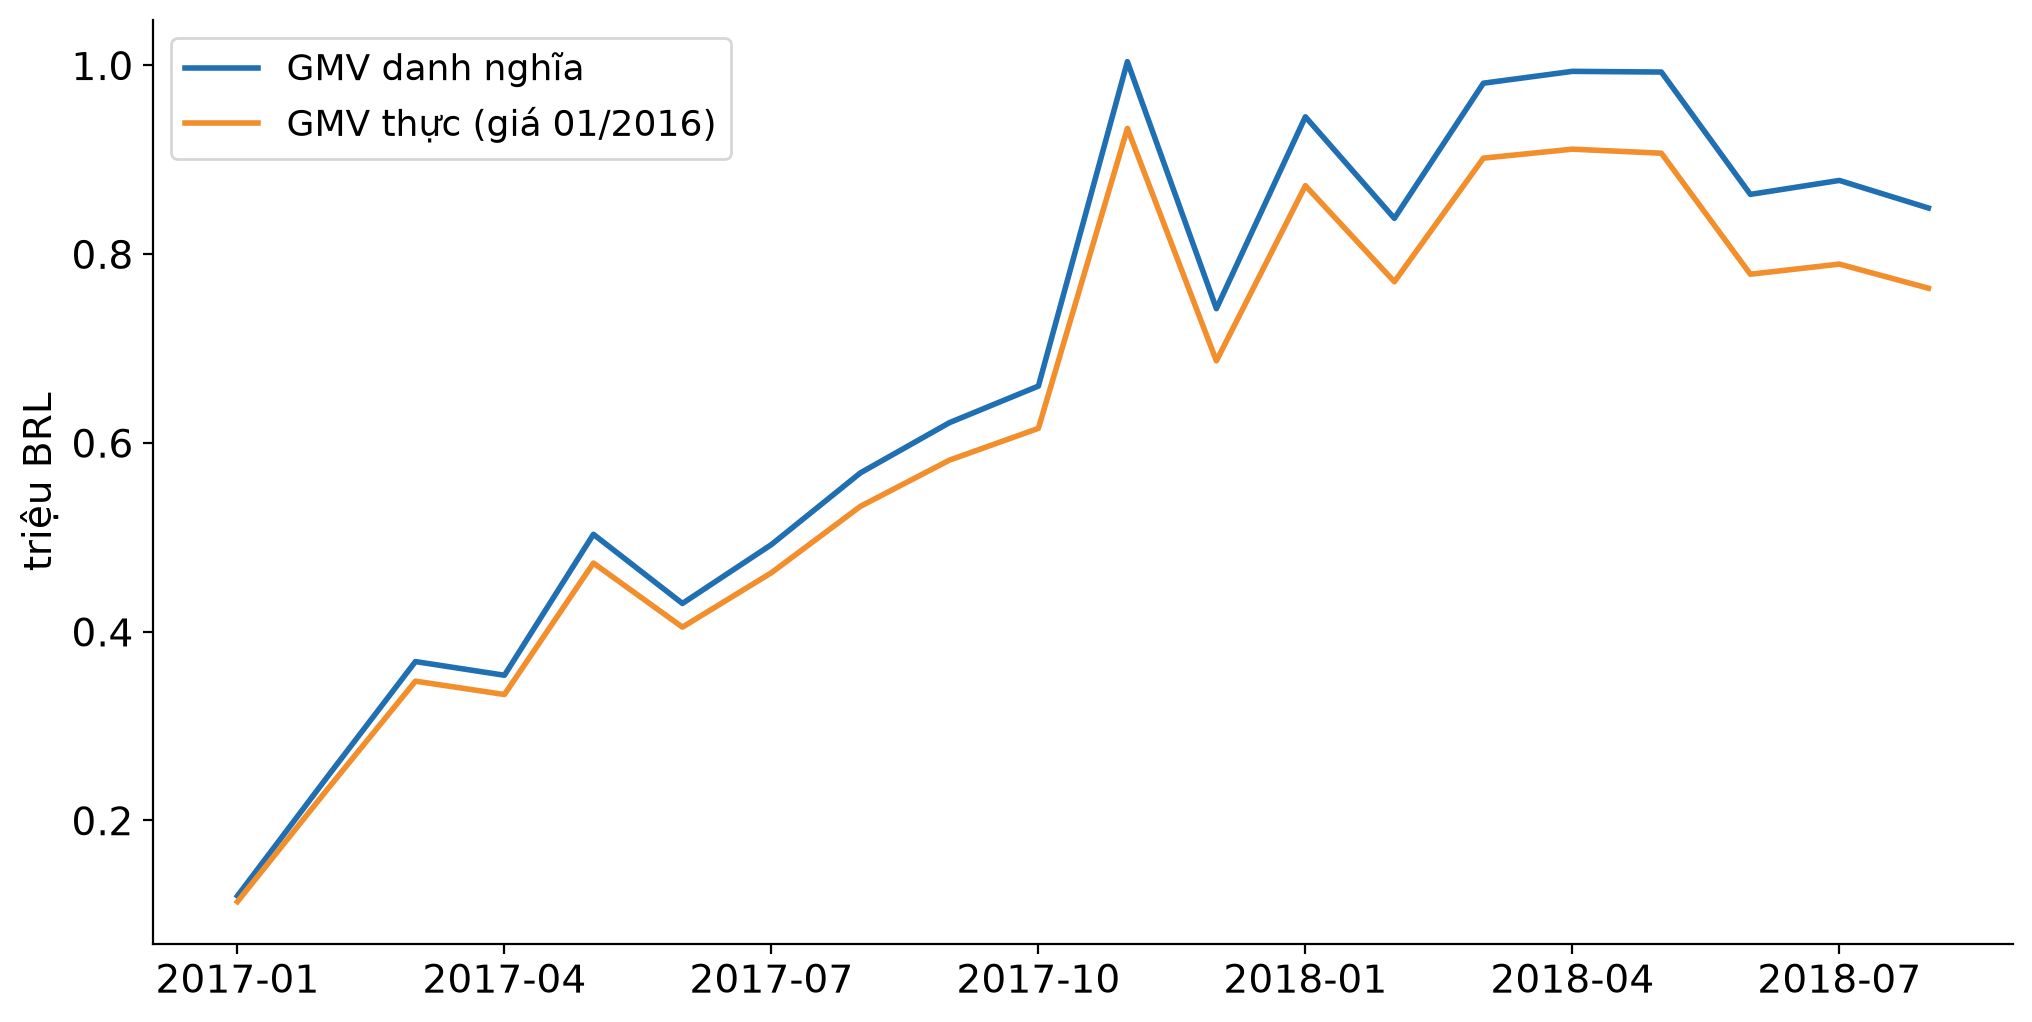
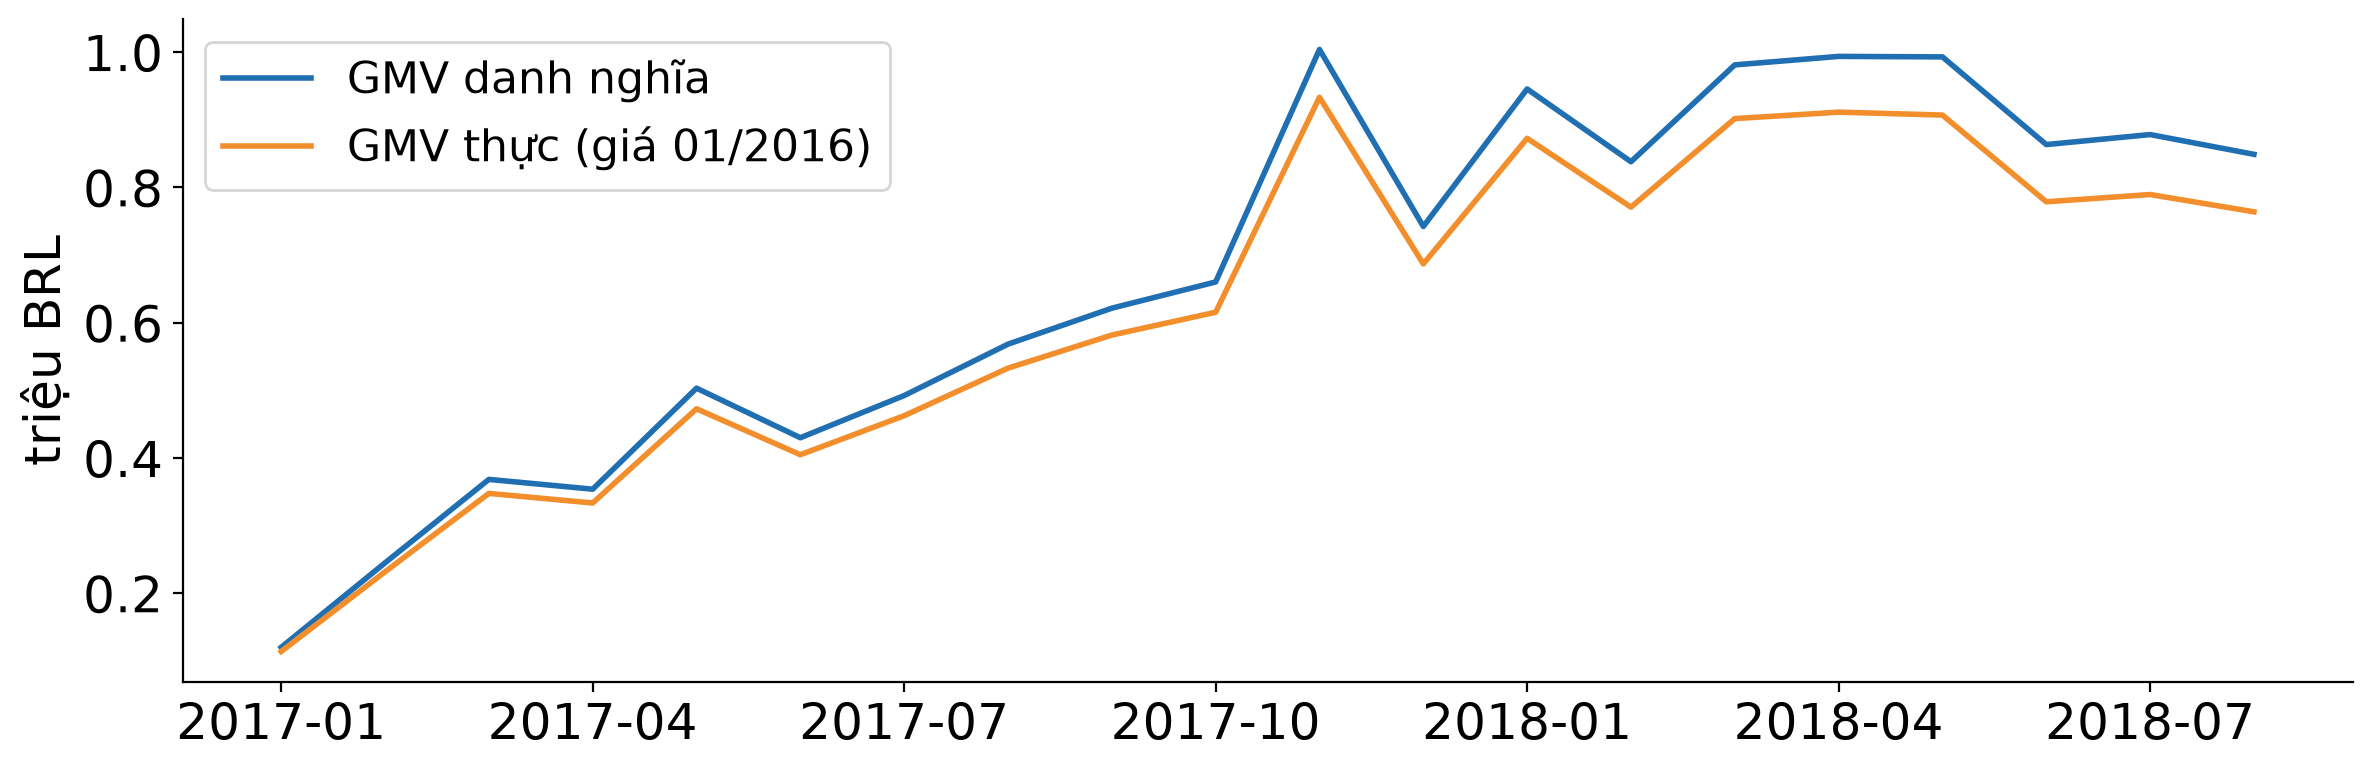
feat(P11b): wider slide charts (14 x 4.3, axis text 18, labels 16), redrawn constellation and pipeline diagrams for the opening slides, 0 checker errors on 00/04/05

diff --git a/scripts/p11_figures.py b/scripts/p11_figures.py
@@ -86,13 +86,13 @@ for i in range(6):
 block(ax, xs[0], 0.2, xs[6] + bw - xs[0], 0.95, "etl_log ghi mọi lời gọi; lỗi API không chặn pipeline chính", "#FFFBEA", fs=17, dashed=True, bold=False)
 save(fig, "5-2_kien_truc_api_sl.png")
 
-# ------------------------------------------------------------------ latency chart (12 x 6, no title)
+# ------------------------------------------------------------------ latency chart (14 x 4.3, no title, axis text 18 pt, labels 16 pt)
 md = (ROOT / "handoff" / "2026-11-19-P10-latency.md").read_text(encoding="utf-8")
 probes = []
 for m in re.finditer(r"- probe (\d+): PostgreSQL → Kafka ([\d.]+) s; Kafka → Bronze ([\d.]+) s; Bronze → Silver ([\d.]+) s", md):
     probes.append((int(m.group(1)), float(m.group(2)), float(m.group(3)), float(m.group(4))))
 assert len(probes) == 6, probes
-fig, ax = plt.subplots(figsize=(12, 6))
+fig, ax = plt.subplots(figsize=(14, 4.3))
 labels = [f"lần {p[0]}" for p in probes]
 left = [0.0] * len(probes)
 for k, name, col in ((1, "PostgreSQL → Kafka", "#8ECAE6"), (2, "Kafka → Bronze", ORANGE), (3, "Bronze → Silver", "#2A9D8F")):
@@ -100,10 +100,51 @@ for k, name, col in ((1, "PostgreSQL → Kafka", "#8ECAE6"), (2, "Kafka → Bron
     ax.barh(labels, vals, left=left, label=name, color=col, edgecolor="white")
     left = [a + b for a, b in zip(left, vals)]
 for y, v in enumerate(left):
-    ax.text(v + 0.5, y, f"{v:.1f} s", va="center", fontsize=15)
-ax.set_xlabel("giây từ lúc COMMIT ở nguồn đến khi Silver ghi xong", fontsize=15)
+    ax.text(v + 0.5, y, f"{v:.1f} s", va="center", fontsize=16)
+ax.set_xlabel("giây từ lúc COMMIT ở nguồn đến khi Silver ghi xong", fontsize=18)
 ax.invert_yaxis()
-ax.tick_params(labelsize=15)
-ax.legend(loc="lower center", bbox_to_anchor=(0.5, 1.0), ncol=3, fontsize=15, frameon=False)
+ax.tick_params(labelsize=18)
+ax.legend(loc="lower center", bbox_to_anchor=(0.5, 1.0), ncol=3, fontsize=16, frameon=False)
 ax.set_xlim(0, 45)
 save(fig, "5-1_latency_sl.png")
+
+
+# ------------------------------------------------------------------ chapter 3 diagrams for the opening slides (the originals stay for chapter 3)
+# (1) constellation: 6 facts share 10 dimensions (13 blocks; dim_date is joined by every fact)
+W, H = 14.0, 4.5
+fig, ax = canvas(W, H)
+facts = [("order_item", "transaction"), ("payment", "transaction"), ("review", "transaction"), ("order_\nfulfillment", "accumulating"), ("lead_funnel", "accumulating"), ("seller_\nmonthly", "periodic")]
+fw, fh, fgap = 2.0, 1.05, 0.3
+fx = [0.1 + i * (fw + fgap) for i in range(6)]
+fy = 3.0
+for x, (n, t) in zip(fx, facts):
+    block(ax, x, fy, fw, fh, f"{n}\n({t})", ORANGE, fs=13)
+dims = [("dim_date\n(role-playing)", 0), ("dim_customer\nSCD2", 0), ("dim_seller\nSCD1", 0), ("dim_product", 0), ("dim_geography", 0), ("order_status,\npayment_type", 0), ("lead_origin,\nlead_profile,\nsales_rep", 0)]
+dw, dh, dgap = 1.78, 1.0, 0.2
+dx = [0.1 + i * (dw + dgap) for i in range(7)]
+dy = 0.1
+edges = {0: [0, 1, 2, 3, 4, 5], 1: [0, 1, 5], 2: [0, 1], 3: [0, 1, 4, 5], 4: [0, 2, 6], 5: [0, 2]}
+for f, ds in edges.items():
+    for d in ds:
+        ax.plot([fx[f] + fw / 2, dx[d] + dw / 2], [fy, dy + dh], color="#6B7280", lw=1.4, alpha=0.55, zorder=1)
+for x, (n, _) in zip(dx, dims):
+    block(ax, x, dy, dw, dh, n, BLUE, fs=12)
+ax.text(W / 2, 4.3, "6 fact dùng chung 10 dimension", ha="center", va="center", fontsize=18, fontweight="bold")
+save(fig, "3-3-4_constellation_sl.png")
+
+# (2) pipeline: source -> staging -> ODS -> warehouse -> mart -> Power BI (8 blocks)
+W, H = 14.0, 3.9
+fig, ax = canvas(W, H)
+steps = [("CSV\nKaggle", GREY), ("oltp +\ncrm", GREY), ("staging", BRONZE), ("ods", SILVER), ("dw\n10 dim\n6 fact", GOLD), ("4 mart\n17 view", GREEN), ("Power BI\n4 dashboard", PURPLE)]
+bw, bh, gap = 1.68, 1.3, 0.3
+xs = [0.1 + i * (bw + gap) for i in range(7)]
+y0 = 1.65
+for x, (t, c) in zip(xs, steps):
+    block(ax, x, y0, bw, bh, t, c, fs=13)
+labs = ["nạp nguồn", "extract", "làm sạch", "dim rồi fact", "view", "CSV"]
+for i in range(6):
+    arrow(ax, (xs[i] + bw, y0 + bh / 2), (xs[i + 1], y0 + bh / 2))
+    ax.text((xs[i] + bw + xs[i + 1]) / 2, y0 + bh + 0.15, labs[i], ha="center", va="bottom", fontsize=14, color=EDGE)
+block(ax, xs[1], 0.1, xs[6] + bw - xs[1], 0.85, "etl_log: mỗi lần chạy, dòng bị loại, kết quả 136 kiểm thử", "#FFFBEA", fs=16, dashed=True, bold=False)
+ax.text(W / 2, 3.7, "run_pipeline điều phối: Python gọi các procedure SQL", ha="center", va="center", fontsize=17, fontweight="bold")
+save(fig, "3-4-1_pipeline_sl.png")

diff --git a/scripts/p9_results.py b/scripts/p9_results.py
@@ -1,7 +1,7 @@
 """P9 results: numbers, tables and figures for chapter 5.2 from the warehouse (olist_dw) and the landing zone manifests.
 
     python scripts/p9_results.py            # everything below
-    python scripts/p9_results.py --slide    # P11: only the charts for the projector, written as figures/5-2_*_sl.png (12 x 6 in, text >= 13 pt, no title);
+    python scripts/p9_results.py --slide    # P11: only the charts for the projector, written as figures/5-2_*_sl.png (14 x 4.3 in, axis text 18 pt, labels 16 pt, no title);
                                             # the handoff, the report tables and the diagram are NOT written; numbers are the same
 Writes:  handoff/2026-11-18-P9-results.md (all numbers, generated; do not edit by hand)
          report/tables/p9_*.tex   figures/5-2_*.png   docs/diagrams/api-kien-truc.drawio + figures/5-2_kien_truc_api.png (draft)
@@ -36,21 +36,21 @@ SLIDE = "--slide" in sys.argv
 if SLIDE:                                   # P11: same data and drawing code, projector sizes (slides/QUY-TAC-TRINH-BAY.md section 6)
     import matplotlib.axes as _ax
 
-    plt.rcParams.update({"font.size": 14, "xtick.labelsize": 14, "ytick.labelsize": 14})
+    plt.rcParams.update({"font.size": 18, "xtick.labelsize": 18, "ytick.labelsize": 18})
     _subplots = plt.subplots
-    plt.subplots = lambda *a, **k: _subplots(*a, **{**k, "figsize": (12, 7.6) if k.get("figsize", (0, 0))[1] > 6.5 else (12, 6)})
+    plt.subplots = lambda *a, **k: _subplots(*a, **{**k, "figsize": (14, 8.6) if k.get("figsize", (0, 0))[1] > 6.5 else (14, 4.3)})
     _ax.Axes.set_title = lambda self, *a, **k: None
     _text = _ax.Axes.text
-    _ax.Axes.text = lambda self, x, y, s, *a, **k: _text(self, x, y, s, *a, **{**k, "fontsize": max(k.get("fontsize", 13), 13)})
+    _ax.Axes.text = lambda self, x, y, s, *a, **k: _text(self, x, y, s, *a, **{**k, "fontsize": max(k.get("fontsize", 16), 16)})
     _xl, _yl, _xt, _lg = _ax.Axes.set_xlabel, _ax.Axes.set_ylabel, _ax.Axes.set_xticklabels, _ax.Axes.legend
-    _ax.Axes.set_xlabel = lambda self, s, *a, **k: _xl(self, s, *a, **{**k, "fontsize": 14})
-    _ax.Axes.set_ylabel = lambda self, s, *a, **k: _yl(self, s, *a, **{**k, "fontsize": 14})
+    _ax.Axes.set_xlabel = lambda self, s, *a, **k: _xl(self, s, *a, **{**k, "fontsize": 18})
+    _ax.Axes.set_ylabel = lambda self, s, *a, **k: _yl(self, s, *a, **{**k, "fontsize": 18})
     import textwrap as _tw
 
-    _ax.Axes.set_xticklabels = lambda self, l, *a, **k: _xt(self, [_tw.fill(str(t), 16) for t in l], *a, **{**k, "fontsize": 14})
+    _ax.Axes.set_xticklabels = lambda self, l, *a, **k: _xt(self, [_tw.fill(str(t), 15) for t in l], *a, **{**k, "fontsize": 18})
     _sy = _ax.Axes.set_ylim
     _ax.Axes.set_ylim = lambda self, *a, **k: _sy(self, 40, 104) if a == (80, 102) else _sy(self, *a, **k)   # tier chart: show the 47-54% of tier 1 instead of cutting it off
-    _ax.Axes.legend = lambda self, *a, **k: _lg(self, *a, **{**k, "fontsize": 13, **({"loc": "upper left"} if "luỹ kế" in self.get_ylabel() else {})})
+    _ax.Axes.legend = lambda self, *a, **k: _lg(self, *a, **{**k, "fontsize": 16, **({"loc": "lower center", "bbox_to_anchor": (0.5, 1.0), "ncol": 3, "frameon": False} if "luỹ kế" in self.get_ylabel() else {})})
 
 
 def q(sql, **p) -> pd.DataFrame:

diff --git a/slides/sections/00-mo-dau.tex b/slides/sections/00-mo-dau.tex
@@ -4,8 +4,8 @@
 % (A) hình lớn
 \begin{frame}{Kho dữ liệu và BI cho 99.441 đơn hàng thương mại điện tử Olist}
 \muc{Mở đầu}
-\HinhLon[0.56\textheight]{3-3-4_constellation.png}
-\KetLuan{Học phần MI4214 -- Kho dữ liệu và Kinh doanh thông minh}
+\HinhLon[0.56\textheight]{3-3-4_constellation_sl.png}
+\KetLuan{dim\_date nối cả 6 fact; dim\_customer nối 4 fact}
 \note{[S01] Học phần MI4214 – Kho dữ liệu và Kinh doanh thông minh; nhóm ...; giảng viên ... Chúng em xây một kho dữ liệu hoàn chỉnh từ hai bộ dữ liệu Olist: nguồn, ETL, kho hình sao, data mart và bốn dashboard Power BI. Bài trình bày đi từ bài toán đến kết quả và bài học.}
 \end{frame}
 
@@ -25,7 +25,7 @@
 % (A) hình lớn
 \begin{frame}{Từ 1,56 triệu dòng nguồn đến 6 fact, 17 view mart và 4 dashboard}
 \muc{Mở đầu}
-\HinhLon[0.56\textheight]{3-4-1_pipeline.png}
-\KetLuan{Nguồn $\rightarrow$ staging $\rightarrow$ ODS $\rightarrow$ kho (10 chiều, 6 fact) $\rightarrow$ 4 data mart $\rightarrow$ Power BI}
+\HinhLon[0.56\textheight]{3-4-1_pipeline_sl.png}
+\KetLuan{Dựng lại từ đầu bằng một lệnh trong khoảng 7 phút, 136 kiểm thử đạt}
 \note{[S03] Dự án trong một trang: 2 hệ thống nguồn, staging, ODS, kho (10 chiều và 6 fact), 4 data mart, Power BI. Toàn bộ dựng lại từ đầu bằng một lệnh trong khoảng 7 phút và cho kết quả giống hệt; 136 phép kiểm thử đạt. Đây là bức tranh để quay lại khi cần.}
 \end{frame}

diff --git a/handoff/2026-11-20-P11-slide.md b/handoff/2026-11-20-P11-slide.md
@@ -72,3 +72,8 @@ Ba lỗi tiêu biểu mỗi file (mỗi lỗi một mã quy tắc khác nhau):
 
 ## Vấn đề còn mở
 - Nhánh `phase/P11-slide` được tạo từ `phase/P10-lakehouse` (P10 chưa merge, còn Superset), nên merge P11 vào `main` cũng đưa các commit của P10 vào `main`.
+
+## P11b – biểu đồ rộng hơn và hai sơ đồ mở đầu (20/11/2026)
+- **Biểu đồ `*_sl.png`** (`5-1_latency` và bảy biểu đồ `5-2_*`) sinh lại với `figsize` 14 x 4,3 (tỉ lệ 3,2 để lấp hơn 85% chiều rộng trang khi khung cao 0,56 chiều cao chữ), chữ trục 18, nhãn số 16, số liệu giữ nguyên. Dùng (14, 5,6) như đề xuất thì hình chỉ rộng khoảng 70% vì bị giới hạn theo chiều cao khung. Biểu đồ GMV trên đầu người (27 thanh) dùng 14 x 8,6 và vẫn nằm cạnh ba ý ngắn nên còn nhỏ: chuyển các ý sang `\KetLuan` nếu cần hình to hơn.
+- **Hai sơ đồ chương 3 ở slide mở đầu** vẽ lại cho slide: `3-3-4_constellation_sl.png` (6 fact, 7 khối dimension, 13 khối) và `3-4-1_pipeline_sl.png` (7 bước và một băng `etl_log`); file gốc không đổi. Quan hệ fact–dimension trong sơ đồ rút từ `lakehouse/dbt/models/gold/schema.yml` và `DW_DESIGN.md` (dim_date nối cả 6 fact; dim_customer nối 4 fact), nên Người 3 nên đối chiếu với ERD đầy đủ ở chương 3 trước khi dùng.
+- Tạo bằng `python scripts/p11_figures.py` và `python scripts/p9_results.py --slide`; `kiem_tra_slide.py --strict` 0 LỖI cho `00`, `04`, `05`; không còn `Overfull \vbox` ở ba file này; `slides_overleaf.zip` và `slides/main.pdf` đã tạo lại (201 trang).
